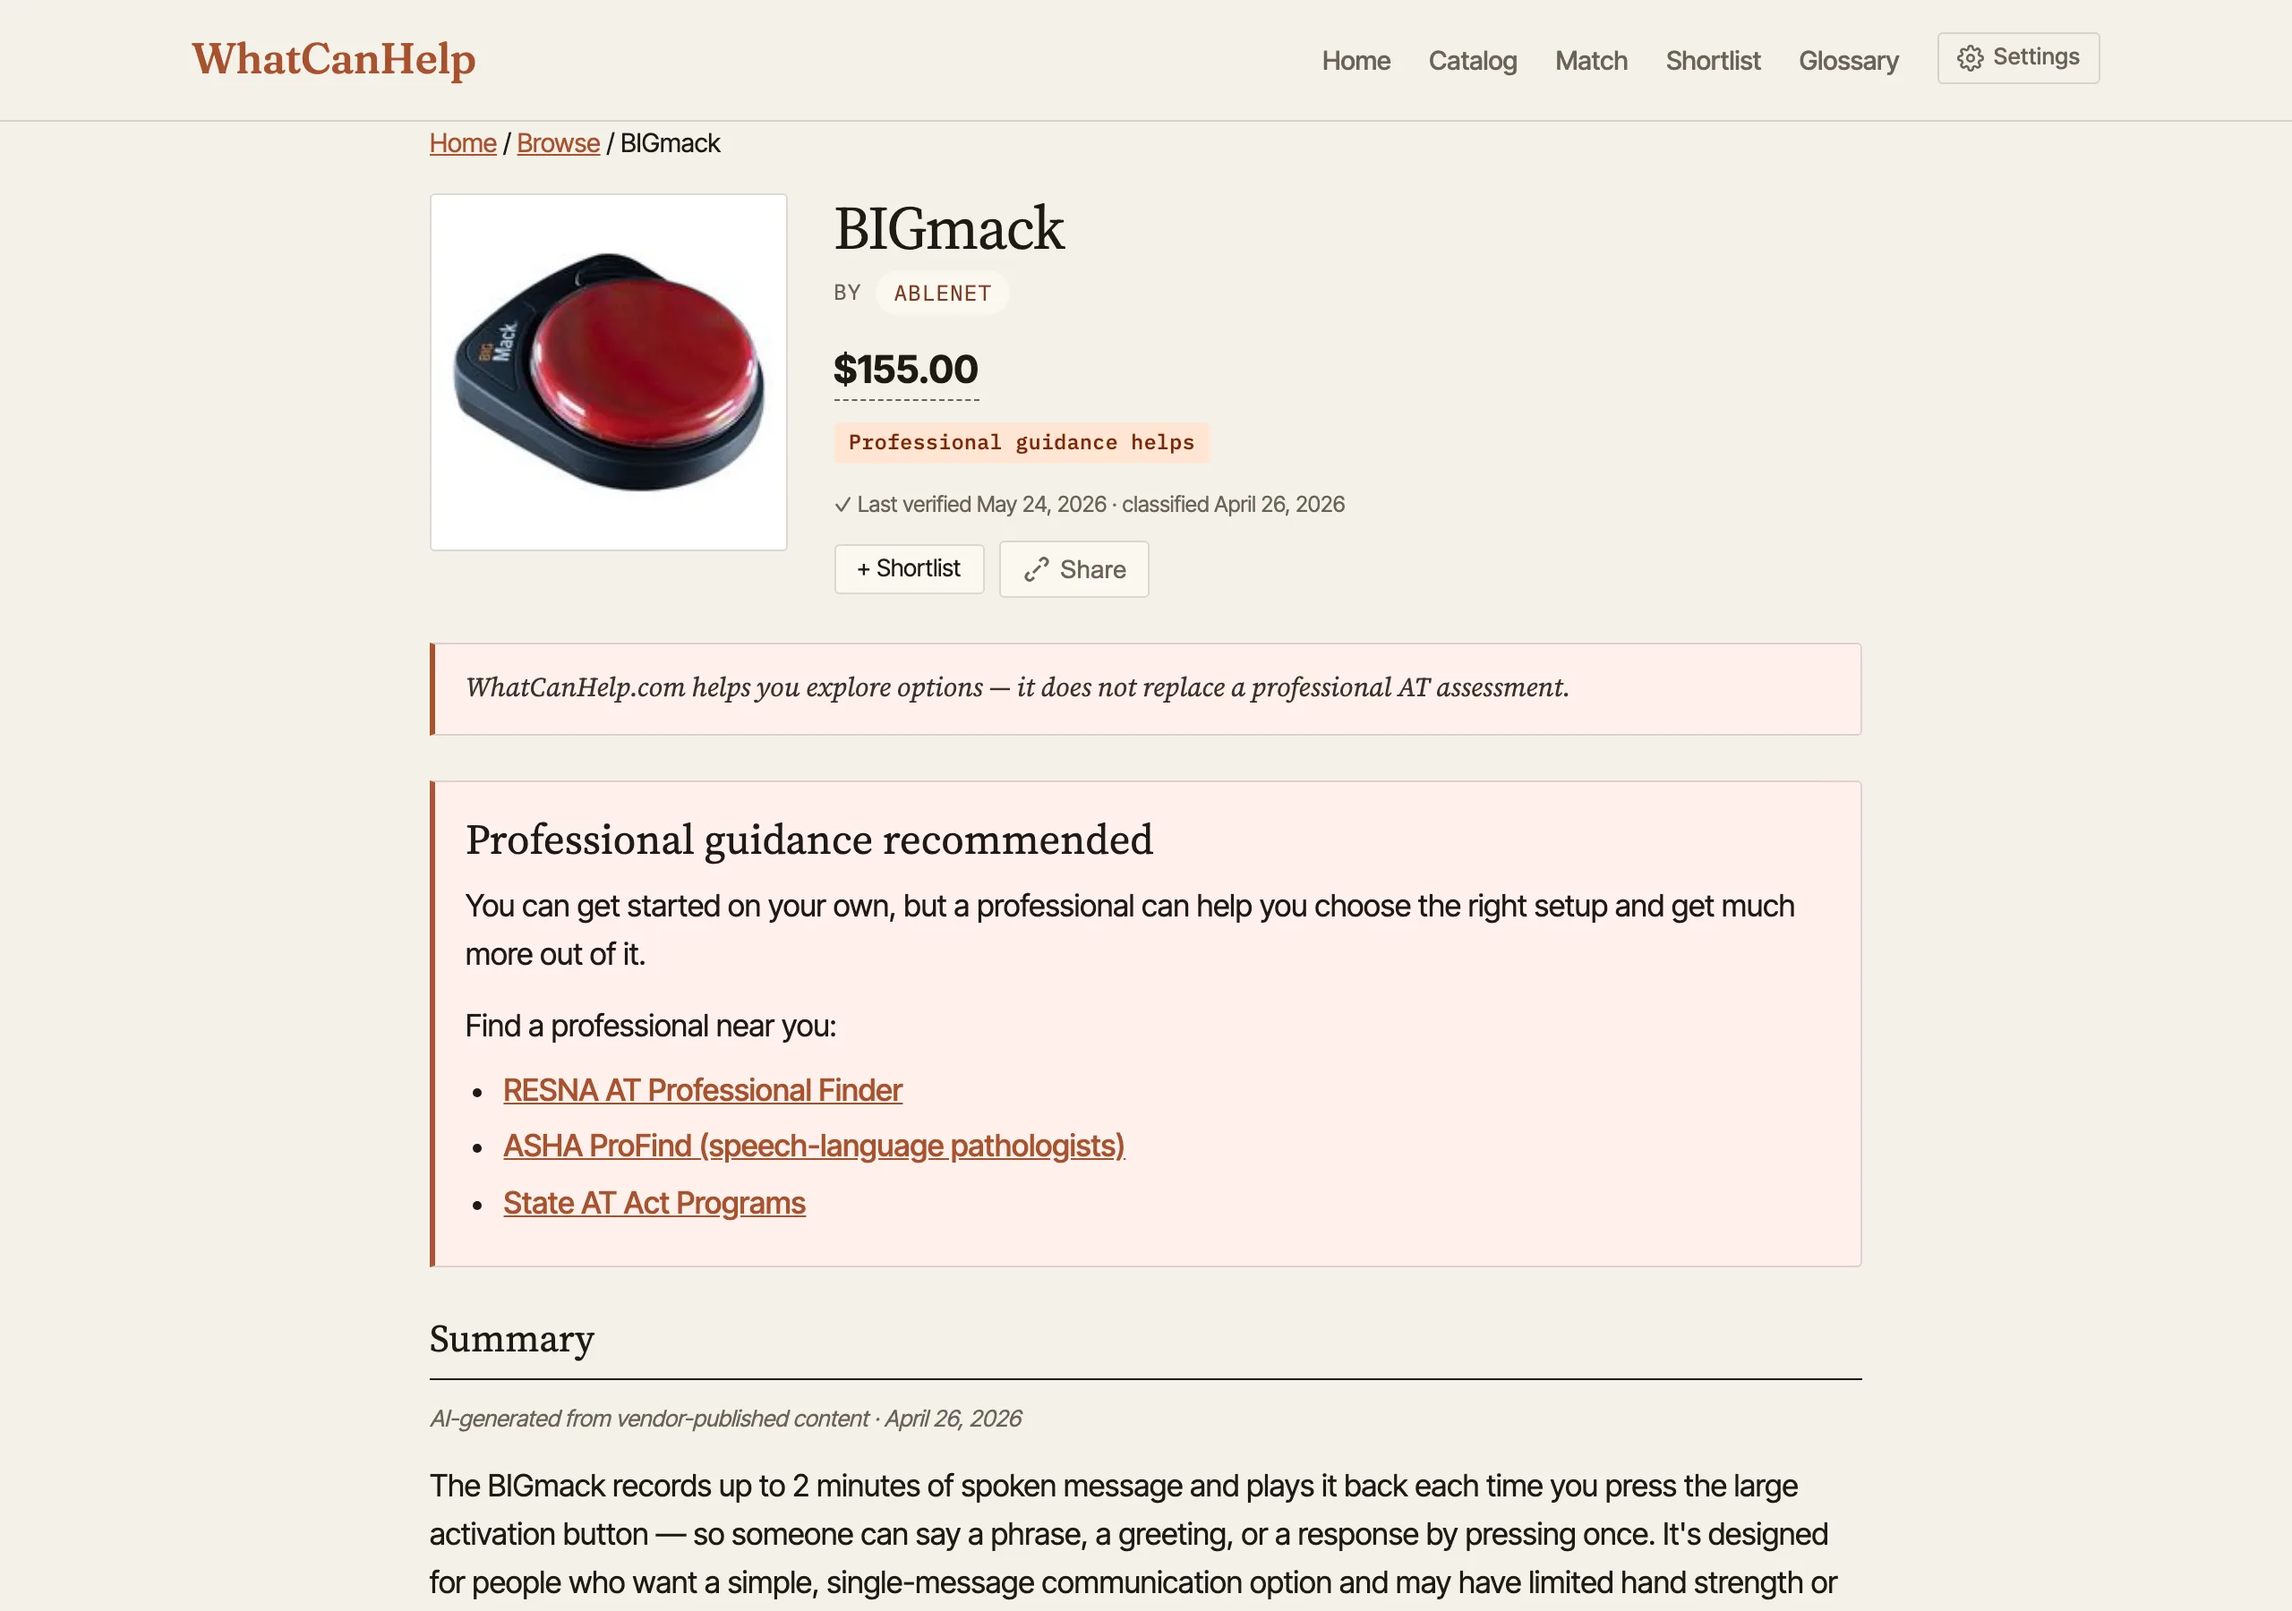
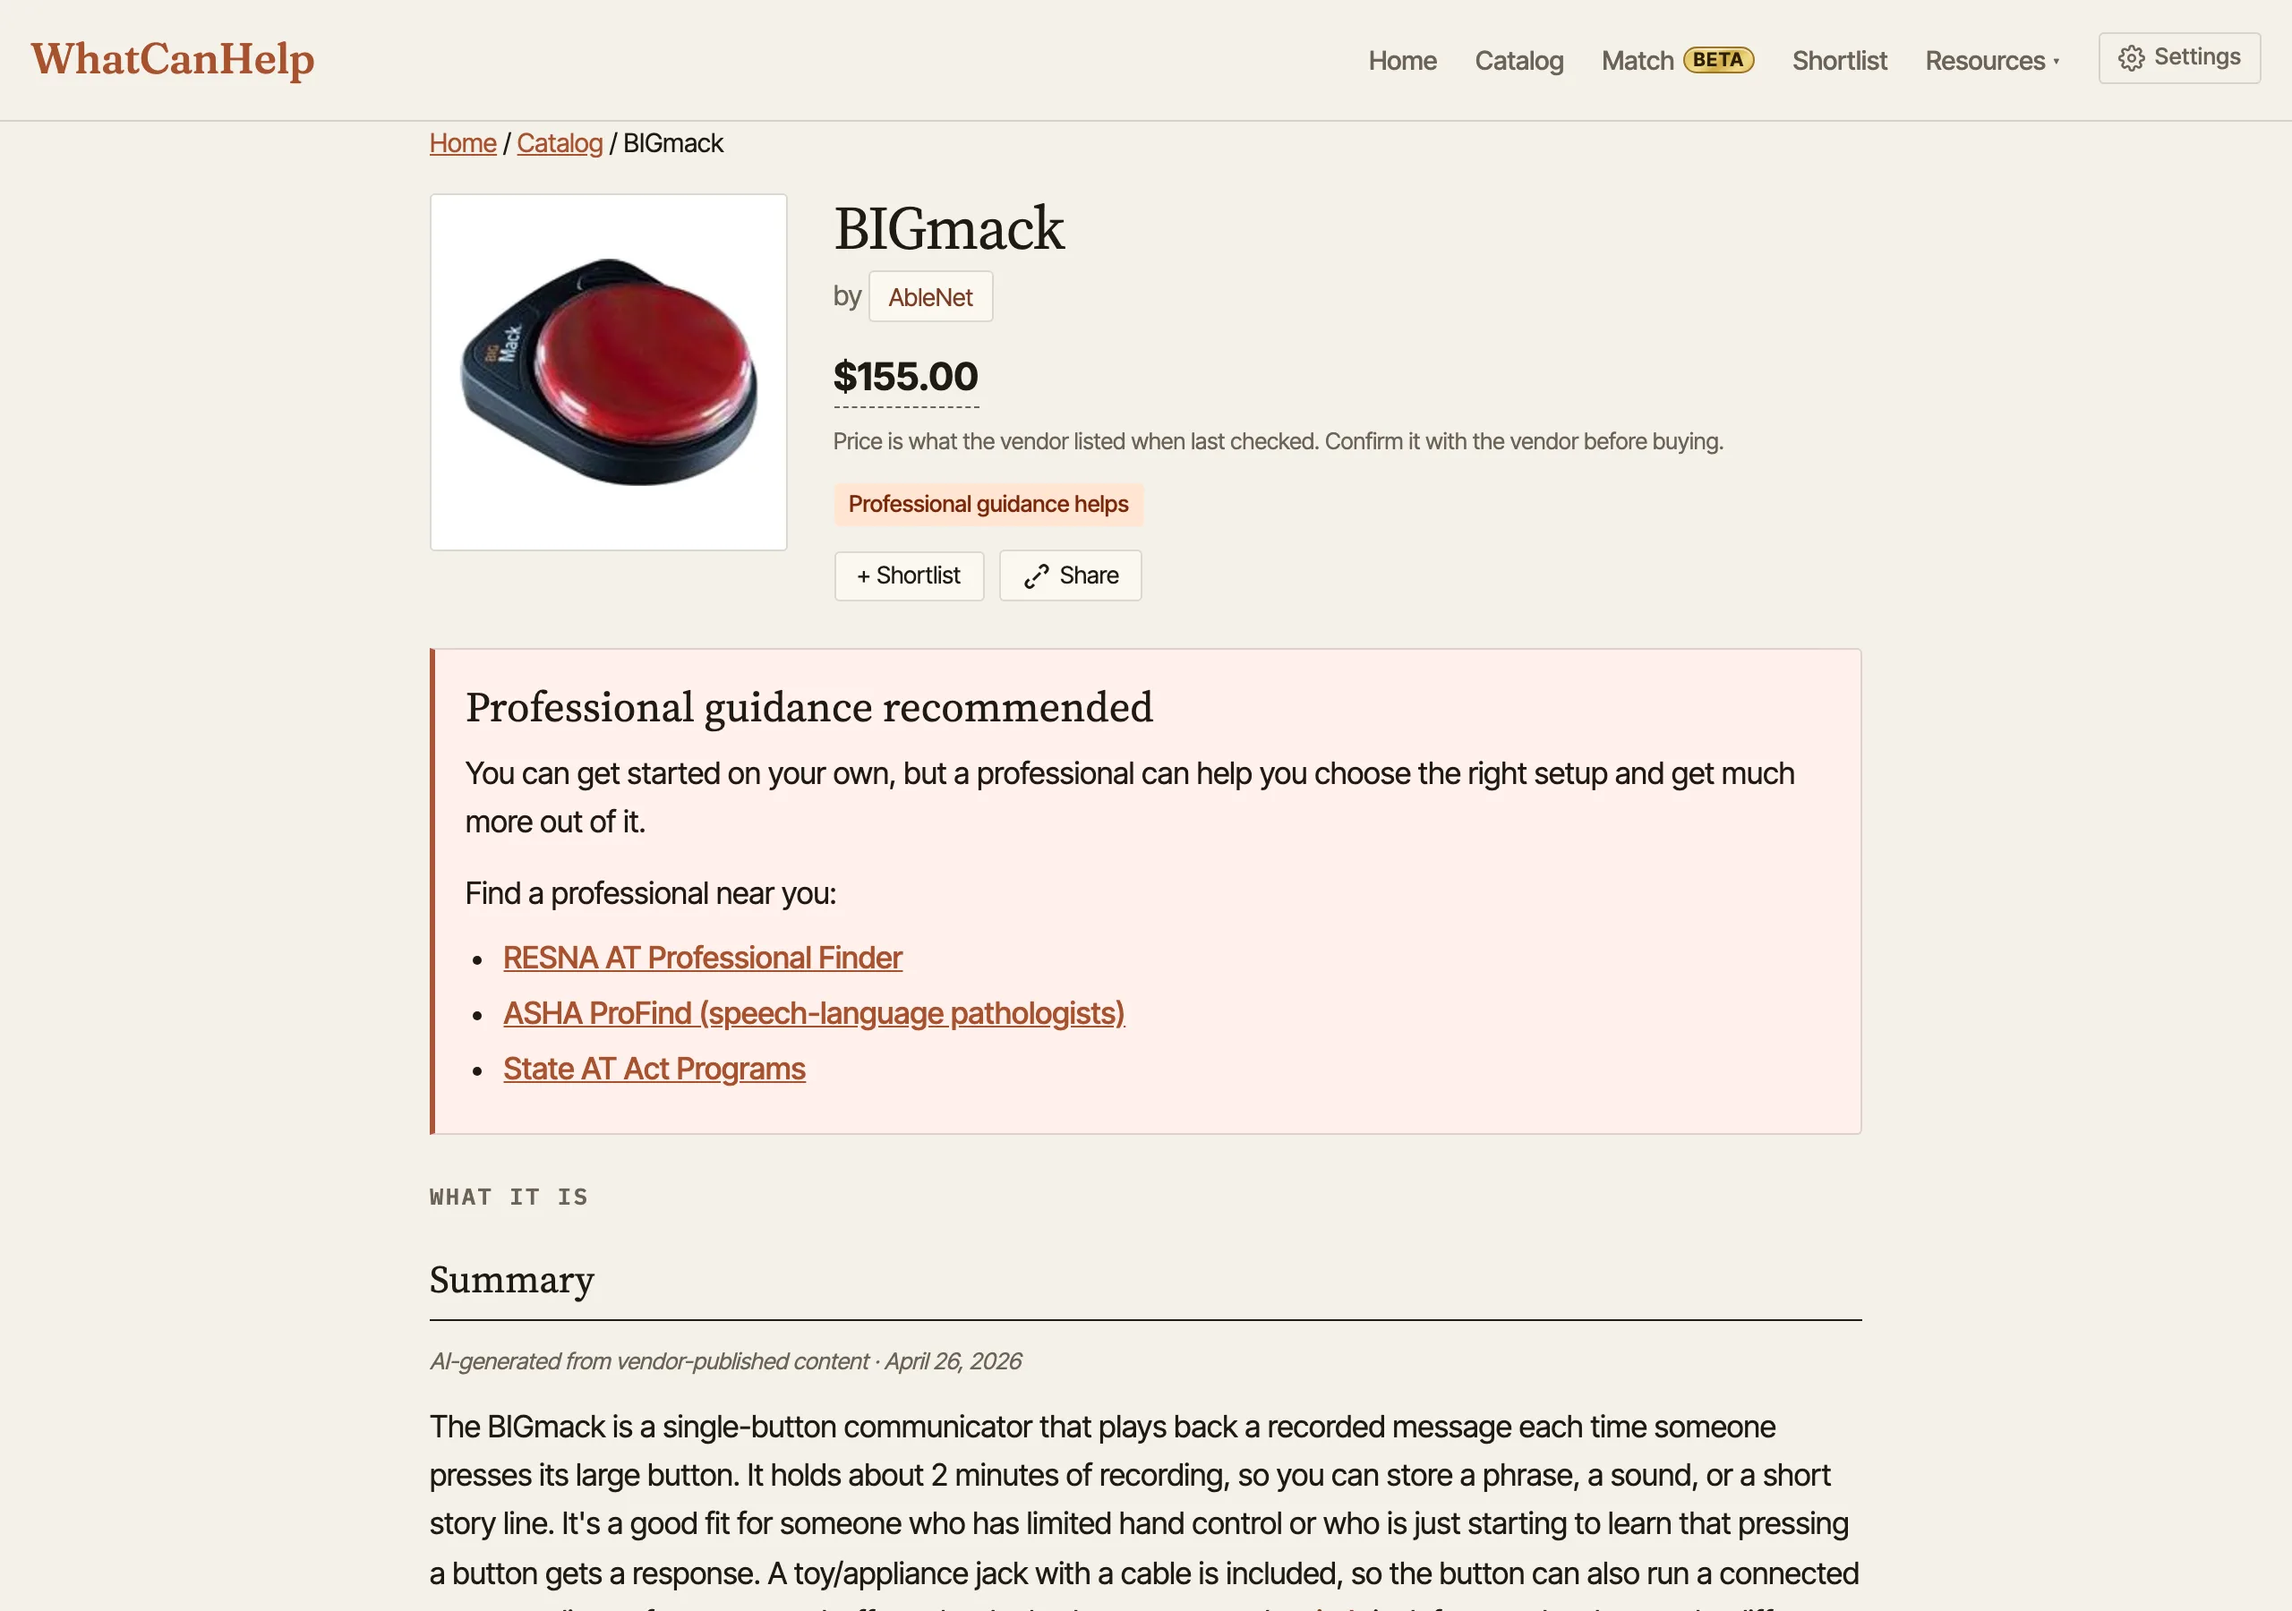
docs(whatcanhelp): fresh screenshots from the live site
Nine new captures, alt text rewritten to match what they show. The home
page leads with search now, so the Match paragraph says so. blog.webp
goes with the section that used it.

diff --git a/src/content/projects/whatcanhelp.md b/src/content/projects/whatcanhelp.md
@@ -14,19 +14,19 @@ I'm the Director of Technology at Lighthouse Center for Vital Living, a nonprofi
 
 It's a free site with thousands of assistive technology products from hundreds of manufacturers in one place. You can browse the catalog, or describe a situation and get a shortlist. It also points you to the free programs in your state that lend devices and help pay for them. No account, no cookies, no ads, no affiliate links.
 
-![WhatCanHelp landing page with the wordmark, a Find what actually helps tagline, a Describe the situation primary button, and a three-step How it works section](/images/whatcanhelp/landing.webp)
+![WhatCanHelp home page with the wordmark, a Find what actually helps tagline, a search box, a Describe your situation link, browse-by-need buttons, and cards for borrowing and funding](/images/whatcanhelp/landing.webp)
 
 ## Describe the situation
 
-![WhatCanHelp intake page showing a freeform Describe the situation textarea with an example placeholder mixing clinical and plain language](/images/whatcanhelp/intake.webp)
+![Match, step one of three: a Describe the situation text box with one clinical and one plain-language example, and a privacy note below it](/images/whatcanhelp/intake.webp)
 
-The main button on the home page is "Describe the situation." It opens Match, which is still marked Beta. Match is one text box: who it's for, what they're trying to do, what's in the way, any constraints. An AT specialist might write "58yo post-CVA, R-hemiparesis, returning to work; needs one-handed Windows input and voice control." A parent might write "my 8-year-old has trouble communicating at school." Both go through the same matching, and both get a shortlist with a note on why each product is on it.
+The home page leads with a search box. Under it, "Not sure? Describe your situation instead" opens Match, which is still marked Beta. Match starts with one text box: who it's for, what they're trying to do, what's in the way, any constraints. An AT specialist might write "58yo post-CVA, R-hemiparesis, returning to work; needs one-handed Windows input and voice control." A parent might write "my 8-year-old has trouble communicating at school." Both go through the same matching, and both get a shortlist with a note on why each product is on it.
 
 I tried a structured checkbox flow first. It looked tidy, but the situations people brought me never fit the boxes. Now people write it the way they'd say it, and Claude pulls out the structure on the backend. What they type goes to Anthropic's API, which doesn't train on it, and isn't stored on the server.
 
 ## The catalog
 
-![WhatCanHelp catalog with thousands of products, faceted sidebar filters, a Recently Added thumbnail row, and a dense product table with complexity badges](/images/whatcanhelp/browse.webp)
+![WhatCanHelp catalog with filters for challenges, product type, platform and ease of setup, a Recently Added row, and product cards with setup-tier badges](/images/whatcanhelp/browse.webp)
 
 The catalog filters by what a product helps with, product type, platform, how hard it is to set up, price, age group, manufacturer and funding source. Search understands plain descriptions as well as product names, so "help hearing the TV" finds TV listening systems. Results show as a table or as cards, and a filtered view can be shared as a link or exported as CSV.
 
@@ -45,13 +45,13 @@ Whether someone, or the people around them, can set a device up and keep it work
 
 ## Product pages
 
-![BIGmack product detail page with price, shortlist and share buttons, a Professional guidance recommended callout with finder links, and a summary section](/images/whatcanhelp/detail.webp)
+![BIGmack product page with price, a Professional guidance helps badge, shortlist and share buttons, a callout linking to professional finders, and an AI-generated summary](/images/whatcanhelp/detail.webp)
 
 Each product page leads with price, manufacturer, setup tier and when the entry was last checked. Where a manufacturer doesn't publish a price, the page shows an estimated range and says so. The summary is written by Claude from the manufacturer's published material and stored, not generated on each visit, and it's labeled as AI-generated. Descriptions aim for about an 8th-grade reading level, and AT terms link to the glossary.
 
 ## Glossary
 
-![WhatCanHelp glossary peek drawer open over the term index, showing the screen reader definition with also-known-as aliases and related-term chips like JAWS, NVDA, and DAISY](/images/whatcanhelp/glossary.webp)
+![WhatCanHelp glossary peek drawer open over the term index, showing the screen reader definition with also-known-as aliases and related-term chips like DAISY, JAWS, and NVDA](/images/whatcanhelp/glossary.webp)
 
 The glossary has more than 130 plain-language definitions, from AAC and switch access to funding programs and credentials like ATP and CLVT. Clicking a term opens a side drawer instead of a new page, and the link to an open term can be shared. Each term page also lists catalog products that use the term. That lookup matches whole words, so OT doesn't match "robot," and it ranks products named for the term above ones that only mention it.
 
@@ -61,13 +61,13 @@ The glossary has more than 130 plain-language definitions, from AAC and switch a
 
 Every US state and territory has a federally funded AT Act program, and most lend devices for a few weeks, free or close to it. Trying a device for a month is a much better basis for a decision than a product listing. The borrow directory lists all 56 programs with a phone number, a website and the date each listing was last verified.
 
-![WhatCanHelp funding directory titled Find Assistive Technology Funding Programs in Your State, with a state selector and a grid of all 56 states and territories](/images/whatcanhelp/funding.webp)
+![WhatCanHelp funding directory titled Find Assistive Technology Funding Programs in Your State, with a state selector and links to all 56 states and territories](/images/whatcanhelp/funding.webp)
 
 The funding pages cover the same 56. Each one opens with the AT Act program, then Medicaid, Vocational Rehabilitation, AT financing loans and ABLE accounts, with what each program does and questions to ask when you call. They're starting points, not coverage advice. The same data feeds the "How to fund this" panels on product pages and the funding section of the PDF report.
 
 ## Guides and reports
 
-![WhatCanHelp step-by-step guides index with four cards: getting a communication device, low vision and blindness, hearing loss, and mobility equipment](/images/whatcanhelp/journeys.webp)
+![WhatCanHelp step-by-step guides index with nine cards, from getting a communication device to sensory regulation](/images/whatcanhelp/journeys.webp)
 
 Getting AT is usually a sequence: understand the options, borrow before buying, narrow the list, line up funding, and bring it to the right meeting. The guides walk that sequence for one kind of need at a time. There are nine now, from communication devices to sensory regulation.
 
@@ -75,7 +75,7 @@ The PDF report collects a summary of the situation, the matched products with ex
 
 ## Accessibility
 
-![The header settings dropdown with theme toggle, text size, line spacing, and reduce motion controls](/images/whatcanhelp/accessibility.webp)
+![The header settings menu open, with theme, increase contrast, text size, line spacing, your state, reduce motion, and keyboard shortcut controls](/images/whatcanhelp/accessibility.webp)
 
 The settings menu covers theme, an increased-contrast mode, text size, line spacing and reduced motion. The site aims for WCAG 2.2 AA, and automated accessibility checks run on key pages with every change. Screen-reader testing is the main open item: VoiceOver testing of the core flows is under way, with NVDA, JAWS and TalkBack after that. The [accessibility statement](https://whatcanhelp.com/accessibility) lists what's still open.
 
